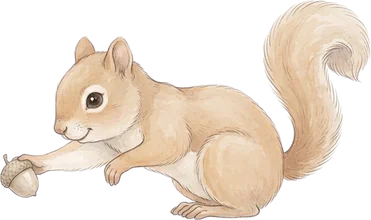
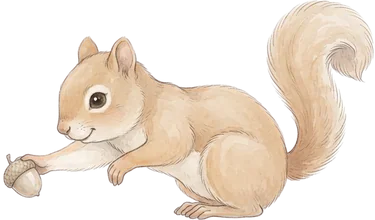
Rose Wreath: real grass with ladybug, snail and bee; empty paw while the acorn falls; acorn rests in the catcher's paws
Claude-Session: https://claude.ai/code/session_019MTJUgo2eSoe3fVWqeMEns

diff --git a/index.html b/index.html
@@ -13,7 +13,7 @@
 <link rel="apple-touch-icon" href="apple-touch-icon.png">
 <link rel="icon" type="image/png" href="apple-touch-icon.png">
 <style>html,body{background:#252D2C;height:100%;margin:0}</style>
-<script>window.__plannerBuild = 'Nov 25, 7:31 AM';</script>
+<script>window.__plannerBuild = 'Nov 25, 7:40 AM';</script>
 <script src="dc-runtime.js"></script>
 </head>
 <body>
@@ -35,7 +35,8 @@ input:focus-visible, textarea:focus-visible, select:focus-visible{outline:2px so
 .grab{cursor:ns-resize}
 [draggable="true"]{-webkit-user-select:none;user-select:none;-webkit-touch-callout:none}
 .grab:hover .grabbar{opacity:1}
-.scene-drop{position:absolute;top:var(--y0);animation:sceneDrop 1.05s cubic-bezier(.45,0,.9,.55) forwards}
+.scene-drop{position:absolute;top:var(--y0);animation:sceneDrop 1.05s cubic-bezier(.45,0,.9,.55) forwards,sceneFade .45s ease-in 2.1s forwards}
+@keyframes sceneFade{to{opacity:0}}
 @keyframes sceneDrop{0%{top:var(--y0);transform:translateX(0) rotate(0deg);opacity:1}10%{transform:translateX(calc(var(--dx) * 0.6)) rotate(60deg)}100%{top:calc(100% - var(--y1));transform:translateX(var(--dx)) rotate(420deg);opacity:1}}
 @keyframes sceneHop{0%{transform:translateY(0)}40%{transform:translateY(-7px)}100%{transform:translateY(0)}}
 @media (prefers-reduced-motion: reduce){.scene-drop{display:none}.scene-ly{animation:none!important}}
@@ -5567,17 +5568,17 @@ class Component extends DCLogic {
           under: [
             { page: 'L', anchor: 'spread', src: 'branch.webp', h: 190, y: -26, pos: 'left top' },
             { page: 'R', anchor: 'spread', src: 'branch.webp', h: 190, y: -26, pos: 'right top' },
-            { page: 'L', anchor: 'bottom', src: 'grass.webp', h: 62, y: 0, pos: 'left bottom' },
-            { page: 'R', anchor: 'bottom', src: 'grass.webp', h: 62, y: 0, pos: 'right bottom' },
+            { page: 'L', anchor: 'spreadBottom', src: 'grass.webp', h: 96, y: 0, pos: 'left bottom' },
+            { page: 'R', anchor: 'spreadBottom', src: 'grass.webp', h: 96, y: 0, pos: 'right bottom' },
             { page: 'L', anchor: 'tl', src: 'canopy.webp', w: 240, h: 227, x: -10, y: -8, op: 0.6 }
           ],
           over: [
-            { page: 'R', anchor: 'tr', src: 'squirrel-toss.webp', w: 125, h: 74, x: 56, y: 24 },
+            { page: 'R', anchor: 'tr', src: 'squirrel-toss.webp', srcDrop: 'squirrel-toss-empty.webp', w: 126, h: 74, x: 56, y: 24 },
             { page: 'R', anchor: 'br', src: 'squirrel-catch.webp', w: 139, h: 112, x: 18, y: 4, catcher: true }
           ],
           // what falls when a task is checked off: from the thrower's paws (offsets from the top-right) to the catcher (offset from the bottom)
           drop: { src: 'acorn.webp', w: 15, h: 17, x: 165, y: 76, toY: 84, dx: 31 },
-          quote: 'bottom', quoteClear: 170, quoteY: 50   // quote sits at the bottom of the calendar page, leaving room for the corner character
+          quote: 'bottom', quoteClear: 170, quoteY: 88   // quote sits at the bottom of the calendar page, leaving room for the corner character
         },
         tabs: { day: ['#F4D9DE', '#A0526A'], week: ['#F6DCCB', '#B5683F'], month: ['#DCE6D3', '#5E7F55'], desk: ['#F3E6B8', '#8F7020'], goals: ['#E4DAEE', '#6E5A94'], school: ['#D6E2EC', '#4C6F8F'], journal: ['#ECD6E0', '#8A4E6B'] }
       },
@@ -5659,7 +5660,7 @@ class Component extends DCLogic {
       const x = px(ly.x || 0), y = px(ly.y || 0);
       if (ly.anchor === 'top') Object.assign(b, { l: '0', r: '0', t: y, h: px(ly.h), bg: url + ' ' + (ly.pos || 'left top') + ' / auto 100% no-repeat' });
       // spread: one image across both pages; each page shows its half, so it meets behind the rings on any screen
-      else if (ly.anchor === 'spread') Object.assign(b, { l: '0', r: '0', t: y, h: px(ly.h), bg: url + ' ' + (ly.pos || 'left top') + ' / 200% 100% no-repeat' });
+      else if (ly.anchor === 'spread' || ly.anchor === 'spreadBottom') Object.assign(b, { l: '0', r: '0', h: px(ly.h), bg: url + ' ' + (ly.pos || 'left top') + (nar ? ' / auto 100% no-repeat' : ' / 200% 100% no-repeat') }, ly.anchor === 'spread' ? { t: y } : { b: y });
       else if (ly.anchor === 'bottom') Object.assign(b, { l: '0', r: '0', b: y, h: px(ly.h), bg: url + ' ' + (ly.pos || 'left bottom') + ' / auto 100% no-repeat' });
       else if (ly.anchor === 'left') Object.assign(b, { l: x, t: y, b: '0', w: px(ly.w), bg: url + ' center / 100% 100% no-repeat' });
       else {
@@ -5676,7 +5677,7 @@ class Component extends DCLogic {
     return {
       sceneUnderL: pick(sc.under, 'L'), sceneUnderR: pick(sc.under, 'R'), sceneOverL: pick(sc.over, 'L'), sceneOverR: pick(sc.over, 'R'),
       sceneDropOn: !!(d && s.sceneDrop),
-      quoteBottom: sc.quote === 'bottom', quoteTopDisp: sc.quote === 'bottom' ? 'none' : 'inline', dayPadBot: sc.quote === 'bottom' ? 84 : 18, quoteBotRight: px(sc.quoteClear || 160), quoteBotY: px(sc.quoteY || 12),
+      quoteBottom: sc.quote === 'bottom', quoteTopDisp: sc.quote === 'bottom' ? 'none' : 'inline', dayPadBot: sc.quote === 'bottom' ? 120 : 18, quoteBotRight: px(sc.quoteClear || 160), quoteBotY: px(sc.quoteY || 12),
       sceneDrop: d ? { bg: "url('" + this.themeAsset(t, d.src) + "') center / contain no-repeat", r: px(d.x), w: px(d.w), h: px(d.h), y0: px(d.y), y1: px(d.toY), dx: px(d.dx || 0) } : {}
     };
   }
@@ -5688,13 +5689,13 @@ class Component extends DCLogic {
     this.setState({ sceneDrop: 0 });
     setTimeout(() => {
       this.setState({ sceneDrop: Date.now() });
-      this._sceneT = setTimeout(() => this.setState({ sceneDrop: 0 }), 1700);
+      this._sceneT = setTimeout(() => this.setState({ sceneDrop: 0 }), 2600);
     }, 30);
   }
   // Art for image themes: files next to the GitHub page, or the claude.ai copy's uploaded assets.
   themeAsset(t, name) {
     if (!t || !t.img || !name) return '';
-    const map = {'themes/rosewreath/swag-1.webp': '/_blob/d8559bd64715b318f201905093ec4093', 'themes/rosewreath/swag-2.webp': '/_blob/bdabfdb2bab6e38de7d1d69e5472676a', 'themes/rosewreath/swag-3.webp': '/_blob/45e97173e81e95557a9344f0d9127355', 'themes/rosewreath/swag-4.webp': '/_blob/d0b7974fecaec72ea71b98bf2dcc1324', 'themes/rosewreath/swag-5.webp': '/_blob/66ba47fdf417d799a49090dd72c4b330', 'themes/rosewreath/swag-6.webp': '/_blob/d20a77669671bf0611f4a1c3bcbdfe6f', 'themes/rosewreath/wreath-1.webp': '/_blob/98797142be590ef152909177cd57999a', 'themes/rosewreath/wreath-2.webp': '/_blob/263047259e44ec6d30704ad8ce964c6b', 'themes/rosewreath/wreath-3.webp': '/_blob/4572d1dc95537834615c8748256a9009', 'themes/rosewreath/wash.webp': '/_blob/a034d957aa228f4c9e1a44bcc7bd7d39', 'themes/rosewreath/paper.webp': '/_blob/d360c2c28dcce6ffb6783f982edf204d', 'themes/rosewreath/olesia.woff2': '/_blob/de8e491310b592e078c879c16cca8755', 'themes/rosewreath/grass.webp': '/_blob/a423b2adef1db75c07c73477a52b7522', 'themes/rosewreath/branch.webp': '/_blob/0569b8731a45d9736bf30a47aefb98fa', 'themes/rosewreath/canopy.webp': '/_blob/643e03d20e3148b23bc62e47d2683e21', 'themes/rosewreath/acorn.webp': '/_blob/fd7694cdc68432a3a113a0800bcc8f44', 'themes/rosewreath/squirrel-toss.webp': '/_blob/e5bf248cb5d0798a4136cb90a942a3f4', 'themes/rosewreath/squirrel-catch.webp': '/_blob/ae5421511bd271a1e52c55dff7b4b397', 'themes/rosewreath/bloom-1.webp': '/_blob/6ec8d73aacd19d70fb381c7b54b5eccb', 'themes/rosewreath/bloom-2.webp': '/_blob/5681dcdeb5b4868fc863e627e8e026d0', 'themes/rosewreath/bloom-3.webp': '/_blob/f728785d5c2beb6741fe171a9e76cc2a', 'themes/rosewreath/bloom-4.webp': '/_blob/a579b0f399748d26afa5d3a45b4d49f7', 'themes/rosewreath/bloom-5.webp': '/_blob/ded9e92a0bd21598aefc2f0c28b73d20', 'themes/rosewreath/bloom-6.webp': '/_blob/265a5967c4c171a842c155e53485ae23', 'themes/rosewreath/animal-bunny.webp': '/_blob/ab30fecd9a4a91f47d99b7590650494c', 'themes/rosewreath/animal-hedgehog.webp': '/_blob/3ccd2f7a798386c1a27417969241fd53', 'themes/rosewreath/animal-fawn.webp': '/_blob/55f79eff9326ee3e4b0246ee0742b0ae', 'themes/rosewreath/animal-squirrel.webp': '/_blob/3bfdaee63cc310b04935a8194c12c7e1', 'themes/rosewreath/animal-chickadee.webp': '/_blob/13cddddc08448be9ec1a26a981e49340'};
+    const map = {'themes/rosewreath/swag-1.webp': '/_blob/d8559bd64715b318f201905093ec4093', 'themes/rosewreath/swag-2.webp': '/_blob/bdabfdb2bab6e38de7d1d69e5472676a', 'themes/rosewreath/swag-3.webp': '/_blob/45e97173e81e95557a9344f0d9127355', 'themes/rosewreath/swag-4.webp': '/_blob/d0b7974fecaec72ea71b98bf2dcc1324', 'themes/rosewreath/swag-5.webp': '/_blob/66ba47fdf417d799a49090dd72c4b330', 'themes/rosewreath/swag-6.webp': '/_blob/d20a77669671bf0611f4a1c3bcbdfe6f', 'themes/rosewreath/wreath-1.webp': '/_blob/98797142be590ef152909177cd57999a', 'themes/rosewreath/wreath-2.webp': '/_blob/263047259e44ec6d30704ad8ce964c6b', 'themes/rosewreath/wreath-3.webp': '/_blob/4572d1dc95537834615c8748256a9009', 'themes/rosewreath/wash.webp': '/_blob/a034d957aa228f4c9e1a44bcc7bd7d39', 'themes/rosewreath/paper.webp': '/_blob/d360c2c28dcce6ffb6783f982edf204d', 'themes/rosewreath/olesia.woff2': '/_blob/de8e491310b592e078c879c16cca8755', 'themes/rosewreath/squirrel-toss-empty.webp': '/_blob/3a7278d2b5528719d1e5e8717b4fb982', 'themes/rosewreath/grass.webp': '/_blob/e9fde67d05bfe46c5e213e4f70de80f9', 'themes/rosewreath/branch.webp': '/_blob/0569b8731a45d9736bf30a47aefb98fa', 'themes/rosewreath/canopy.webp': '/_blob/643e03d20e3148b23bc62e47d2683e21', 'themes/rosewreath/acorn.webp': '/_blob/fd7694cdc68432a3a113a0800bcc8f44', 'themes/rosewreath/squirrel-toss.webp': '/_blob/3f3e33ac47e702c148d2981a351480ce', 'themes/rosewreath/squirrel-catch.webp': '/_blob/ae5421511bd271a1e52c55dff7b4b397', 'themes/rosewreath/bloom-1.webp': '/_blob/6ec8d73aacd19d70fb381c7b54b5eccb', 'themes/rosewreath/bloom-2.webp': '/_blob/5681dcdeb5b4868fc863e627e8e026d0', 'themes/rosewreath/bloom-3.webp': '/_blob/f728785d5c2beb6741fe171a9e76cc2a', 'themes/rosewreath/bloom-4.webp': '/_blob/a579b0f399748d26afa5d3a45b4d49f7', 'themes/rosewreath/bloom-5.webp': '/_blob/ded9e92a0bd21598aefc2f0c28b73d20', 'themes/rosewreath/bloom-6.webp': '/_blob/265a5967c4c171a842c155e53485ae23', 'themes/rosewreath/animal-bunny.webp': '/_blob/ab30fecd9a4a91f47d99b7590650494c', 'themes/rosewreath/animal-hedgehog.webp': '/_blob/3ccd2f7a798386c1a27417969241fd53', 'themes/rosewreath/animal-fawn.webp': '/_blob/55f79eff9326ee3e4b0246ee0742b0ae', 'themes/rosewreath/animal-squirrel.webp': '/_blob/3bfdaee63cc310b04935a8194c12c7e1', 'themes/rosewreath/animal-chickadee.webp': '/_blob/13cddddc08448be9ec1a26a981e49340'};
     if (typeof window !== 'undefined' && window.__plannerBuild) return t.img.dir + name;
     return map[t.img.dir + name] || '';
   }
@@ -11318,7 +11319,7 @@ class Component extends DCLogic {
       trayCount: trayList.length + (trayList.length === 1 ? ' task' : ' tasks'),
       trayChevron: (isWeek ? s.trayOpenWeek : s.trayOpen) ? 'rotate(180deg)' : 'none',
       toggleTray: () => this.setState(isWeek ? { trayOpenWeek: !s.trayOpenWeek } : { trayOpen: !s.trayOpen }),
-      trayHot: s.dropKey === 'tray' ? '#FCE9A6' : (this.themeDef(s.settings.theme).art === 'img' ? 'rgba(255,255,255,0.6)' : '#F6F1E6'),
+      trayHot: s.dropKey === 'tray' ? '#FCE9A6' : (this.themeDef(s.settings.theme).art === 'img' ? 'rgba(255,253,251,0.92)' : '#F6F1E6'),
       trayBorder: this.themeDef(s.settings.theme).art === 'img' ? '#E4D2CF' : '#E3D9C5',
       trayOver: (e) => { e.preventDefault(); this.hover('tray'); },
       trayDrop: (e) => {
